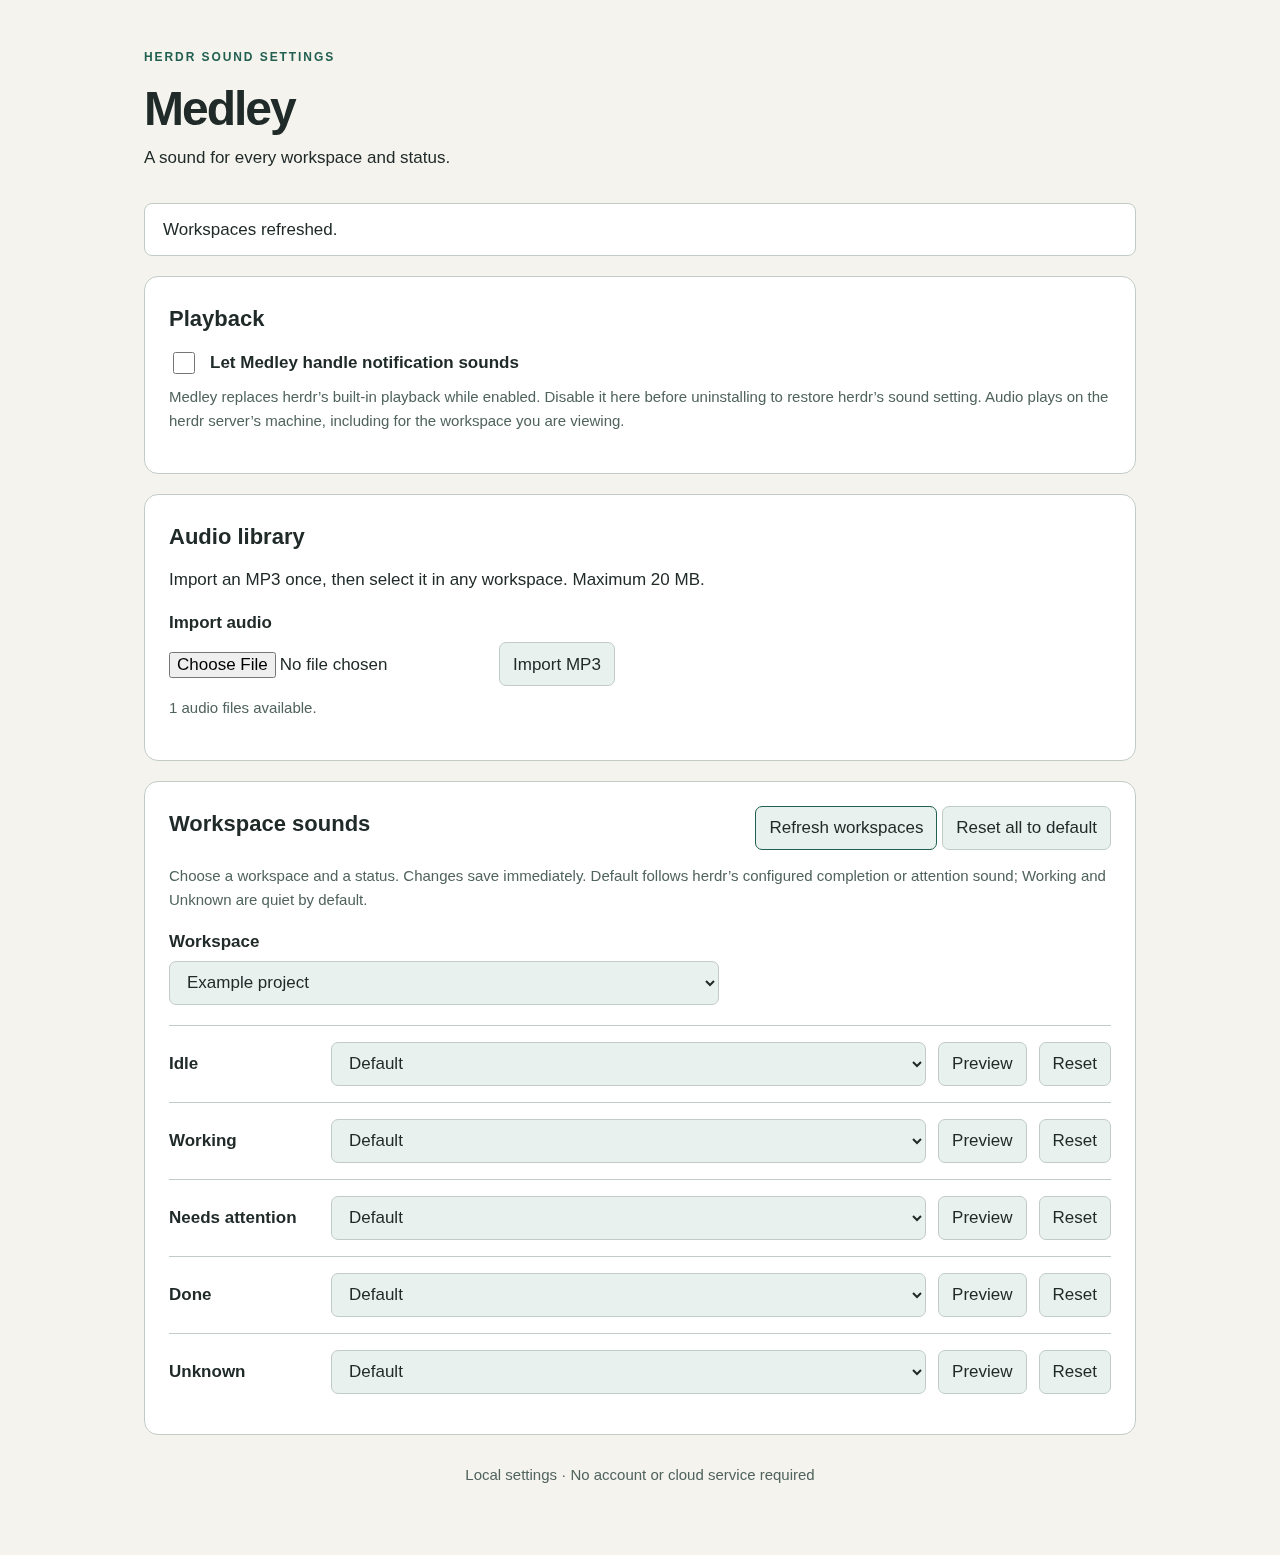
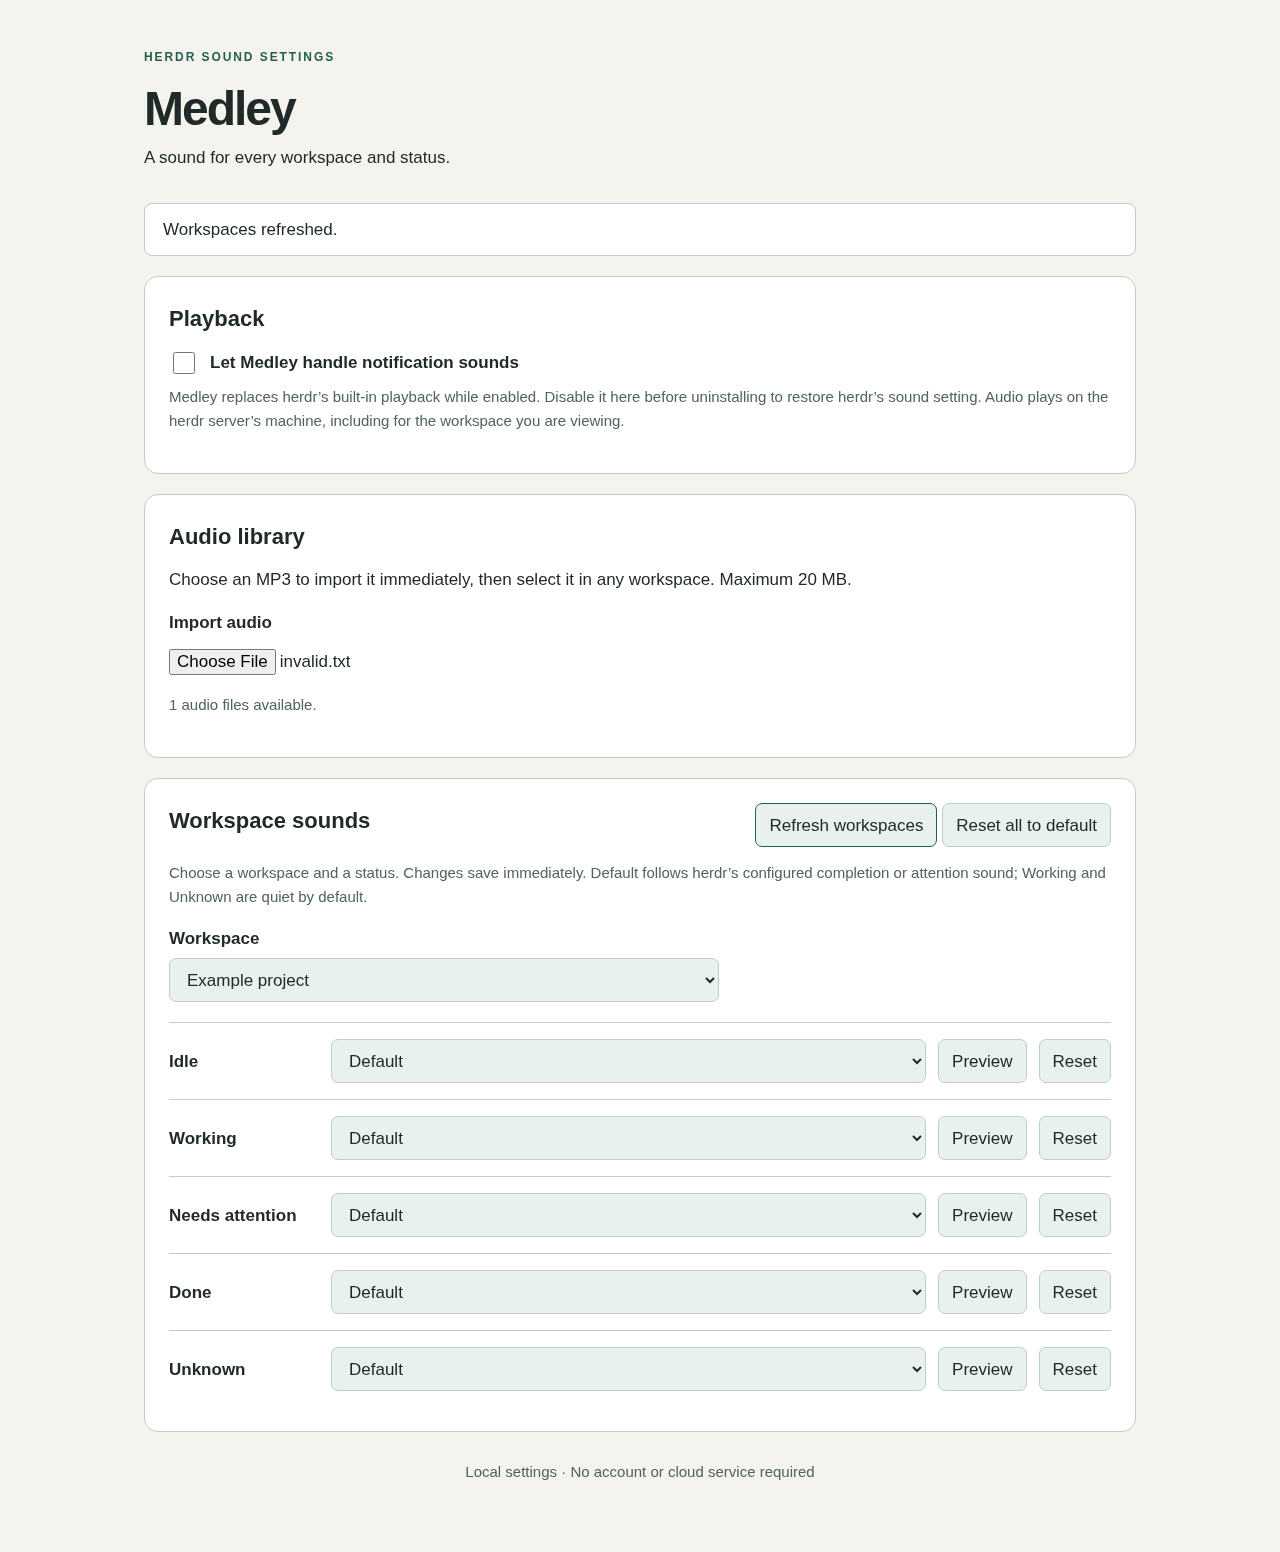
Import selected audio immediately and simplify sound labels

diff --git a/assets/app.js b/assets/app.js
@@ -29,7 +29,7 @@ function drawRules() {
     const label = document.createElement('label'); label.htmlFor = 'status-' + status;
     label.textContent = ({idle:'Idle',working:'Working',blocked:'Needs attention',done:'Done',unknown:'Unknown'})[status];
     const select = document.createElement('select'); select.id = label.htmlFor;
-    select.append(option('default','Default'), option('none','None · quiet'), ...model.audio.map(audio => option(audio.id,audio.name)));
+    select.append(option('default','Default'), option('none','None · quiet'), ...model.audio.map(audio => option(audio.id,audio.name.replace(/\.mp3$/i,''))));
     select.value = model.settings.rules[workspace]?.[status] || 'default';
     select.onchange = () => run('Sound saved.', async () => {await request('/rule',{workspace,status,choice:select.value}); await load();});
     const preview = document.createElement('button'); preview.textContent = 'Preview'; preview.setAttribute('aria-label','Preview ' + label.textContent + ' sound');
@@ -62,10 +62,13 @@ $('refresh').onclick = () => run('Workspaces refreshed.',load);
 $('enabled').onchange = () => run('Playback setting saved.',async () => {await request('/enabled',{enabled:$('enabled').checked});await load();});
 $('reset').onclick = () => run('All sounds reset to default. You can undo this reset.',async () => {savedRules = structuredClone(model.settings.rules);await request('/reset',{});await load();$('undo').hidden = false;});
 $('undo').onclick = () => run('Previous sound choices restored.',async () => {await request('/restore',{rules:savedRules});await load();$('undo').hidden = true;});
-$('import').onclick = () => run('Audio imported. Select it for any status below.',async () => {
+$('upload').onchange = () => {
+  if (!$('upload').files.length) return;
+  return run('Audio imported. Select it for any status below.',async () => {
   const file = $('upload').files[0];
   if (!file || !file.name.toLowerCase().endsWith('.mp3') || file.size > 20*1024*1024) throw new Error('Choose an MP3 file up to 20 MB.');
   const content = await new Promise((resolve,reject) => {const reader = new FileReader();reader.onload = () => resolve(reader.result.split(',')[1]);reader.onerror = () => reject(new Error('The file could not be read.'));reader.readAsDataURL(file);});
   await request('/upload',{name:file.name,content});$('upload').value = '';await load();
-});
+  });
+};
 run('Settings ready. Changes save immediately.',load);

diff --git a/assets/index.html b/assets/index.html
@@ -3,7 +3,7 @@
 <body><main><header><p class="eyebrow">HERDR SOUND SETTINGS</p><h1>Medley</h1><p>A sound for every workspace and status.</p></header>
 <p id="feedback" role="status" aria-live="polite">Loading settings…</p><p id="error" role="alert" hidden></p><audio id="player" controls hidden aria-label="Sound preview"></audio>
 <section aria-labelledby="playback-heading"><h2 id="playback-heading">Playback</h2><label class="toggle"><input type="checkbox" id="enabled"> Let Medley handle notification sounds</label><p class="help">Medley replaces herdr’s built-in playback while enabled. Disable it here before uninstalling to restore herdr’s sound setting. Audio plays on the herdr server’s machine, including for the workspace you are viewing.</p></section>
-<section aria-labelledby="library-heading"><h2 id="library-heading">Audio library</h2><p>Import an MP3 once, then select it in any workspace. Maximum 20 MB.</p><label for="upload">Import audio</label><input type="file" accept=".mp3,audio/mpeg" id="upload"><button id="import">Import MP3</button><p id="library" class="help"></p></section>
+<section aria-labelledby="library-heading"><h2 id="library-heading">Audio library</h2><p>Choose an MP3 to import it immediately, then select it in any workspace. Maximum 20 MB.</p><label for="upload">Import audio</label><input type="file" accept=".mp3,audio/mpeg" id="upload"><p id="library" class="help"></p></section>
 <section aria-labelledby="rules-heading"><div class="section-heading"><h2 id="rules-heading">Workspace sounds</h2><div><button id="refresh">Refresh workspaces</button> <button id="reset">Reset all to default</button> <button id="undo" hidden>Undo reset</button></div></div><p class="help">Choose a workspace and a status. Changes save immediately. Default follows herdr’s configured completion or attention sound; Working and Unknown are quiet by default.</p>
 <div class="filters"><div><label for="workspace">Workspace</label><select id="workspace"></select></div></div><div id="rules"></div></section>
 <footer>Local settings · No account or cloud service required</footer></main></body></html>

diff --git a/docs/validation.md b/docs/validation.md
@@ -82,3 +82,33 @@ Control-and-feedback checks:
 7. Longer operations: preview uses the existing busy state; no new long operation.
 8. Navigation: no navigation changes; reload persistence passed browser validation.
 Vendored-block contract: not applicable; no vendored layout block was extended.
+
+## Immediate import and sound labels — 2026-10-20
+
+File selection now imports immediately; cancelling an empty picker does nothing.
+Dropdown labels strip only the final .mp3 suffix, case-insensitively; stored names
+and audio IDs remain unchanged. The separate import button was removed.
+All 11 Python tests and Chromium browser validation passed, including immediate
+import, extension-free labels, invalid-file feedback, playback, and reload persistence.
+Security: PASS for unchanged token rejection checks and existing upload validation.
+
+Input-and-interaction checks:
+1. Prevention: file type/20 MB checks retained before upload; busy controls prevent repeats.
+2. Recovery: invalid selection shows the existing actionable MP3 error and preserves input.
+3. Standard controls: native labelled file input and native dropdown retained; keyboard check passed.
+4. Platform conventions: selecting a file performs the explicitly described import; redundant button removed.
+5. Reuse: dropdown uses existing library IDs; no re-entry of names required.
+6. Reset/clear: no new reset/clear controls; existing sound-rule reset and undo unchanged and tested.
+7. Password inspection: not applicable; no password entry.
+8. Selection meaning: dropdown remains a single choice among library sounds, default and quiet.
+No vendored block was extended. Desktop/mobile screenshots use synthetic fixtures.
+
+Control-and-feedback checks for immediate import:
+1. Status: existing busy state followed by import confirmation.
+2. Control: native picker can be cancelled without an import; no new modal.
+3. Prevention: validation and disabled controls retained during the request.
+4. Recovery: invalid-file error tested; subsequent refresh succeeds.
+5. Error impact: existing library/rules remain intact on validation failure.
+6. Timing: immediate existing busy feedback during file read/upload.
+7. Progress: bounded 20 MB upload uses existing busy state; no new long-running action.
+8. Navigation: reload persistence and normal keyboard navigation passed.

diff --git a/README.md b/README.md
@@ -26,9 +26,9 @@ The settings command prints a private localhost URL and opens it in your browser
 
 ## Choose your sounds
 
-1. Import an MP3, up to 20 MB. Medley validates the audio and copies it into its private library, so moving or deleting the original does not break playback.
+1. Choose an MP3, up to 20 MB; it imports immediately without another button press. Medley validates the audio and copies it into its private library, so moving or deleting the original does not break playback.
 2. Choose a workspace. Each of its five statuses has a separate audio selection.
-3. Select a library file, **None · quiet**, or **Default**. Changes save immediately.
+3. Select a library file (displayed without its .mp3 extension), **None · quiet**, or **Default**. Changes save immediately.
 4. Use **Preview** to play the selected sound immediately in your browser. The audio controls remain available to stop or replay it. Silent selections are identified as quiet; if the browser blocks playback, use Play in the controls to retry. **Reset** restores one cell; **Reset all to default** restores every workspace and offers Undo until settings closes or another reset replaces it.
 
 The statuses are Idle, Working, Needs attention (herdr's `blocked`), Done, and Unknown. Rules use herdr's workspace IDs, so renaming a workspace retains its choices. Recreating a deleted workspace or using a different herdr session does not transfer choices automatically. Keep a separate plugin config directory per independent session.
